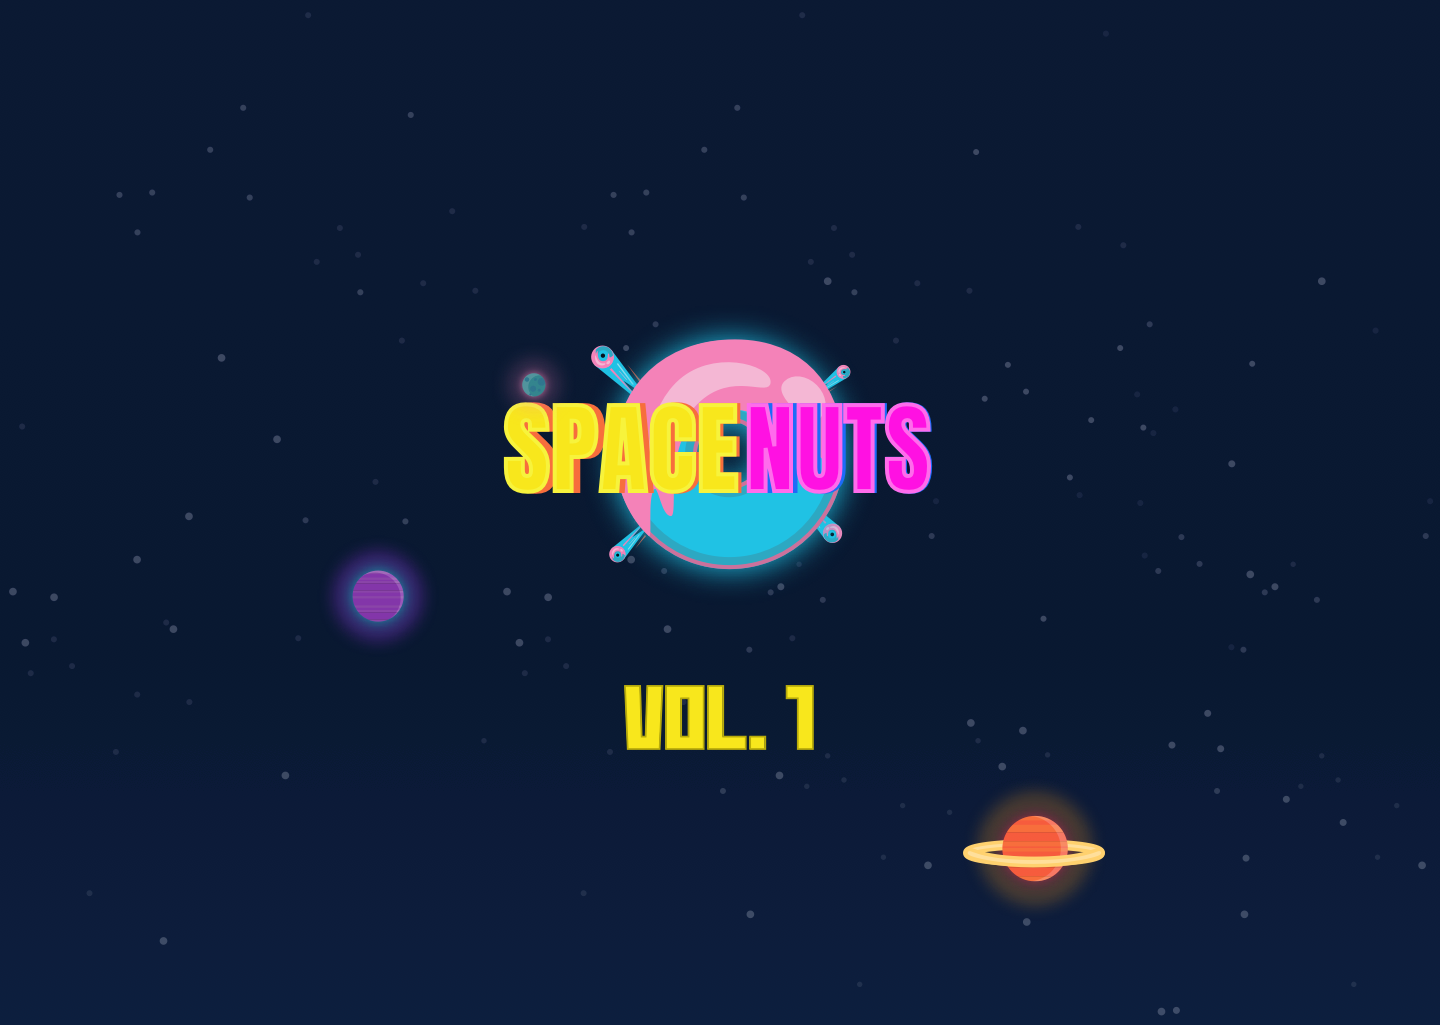
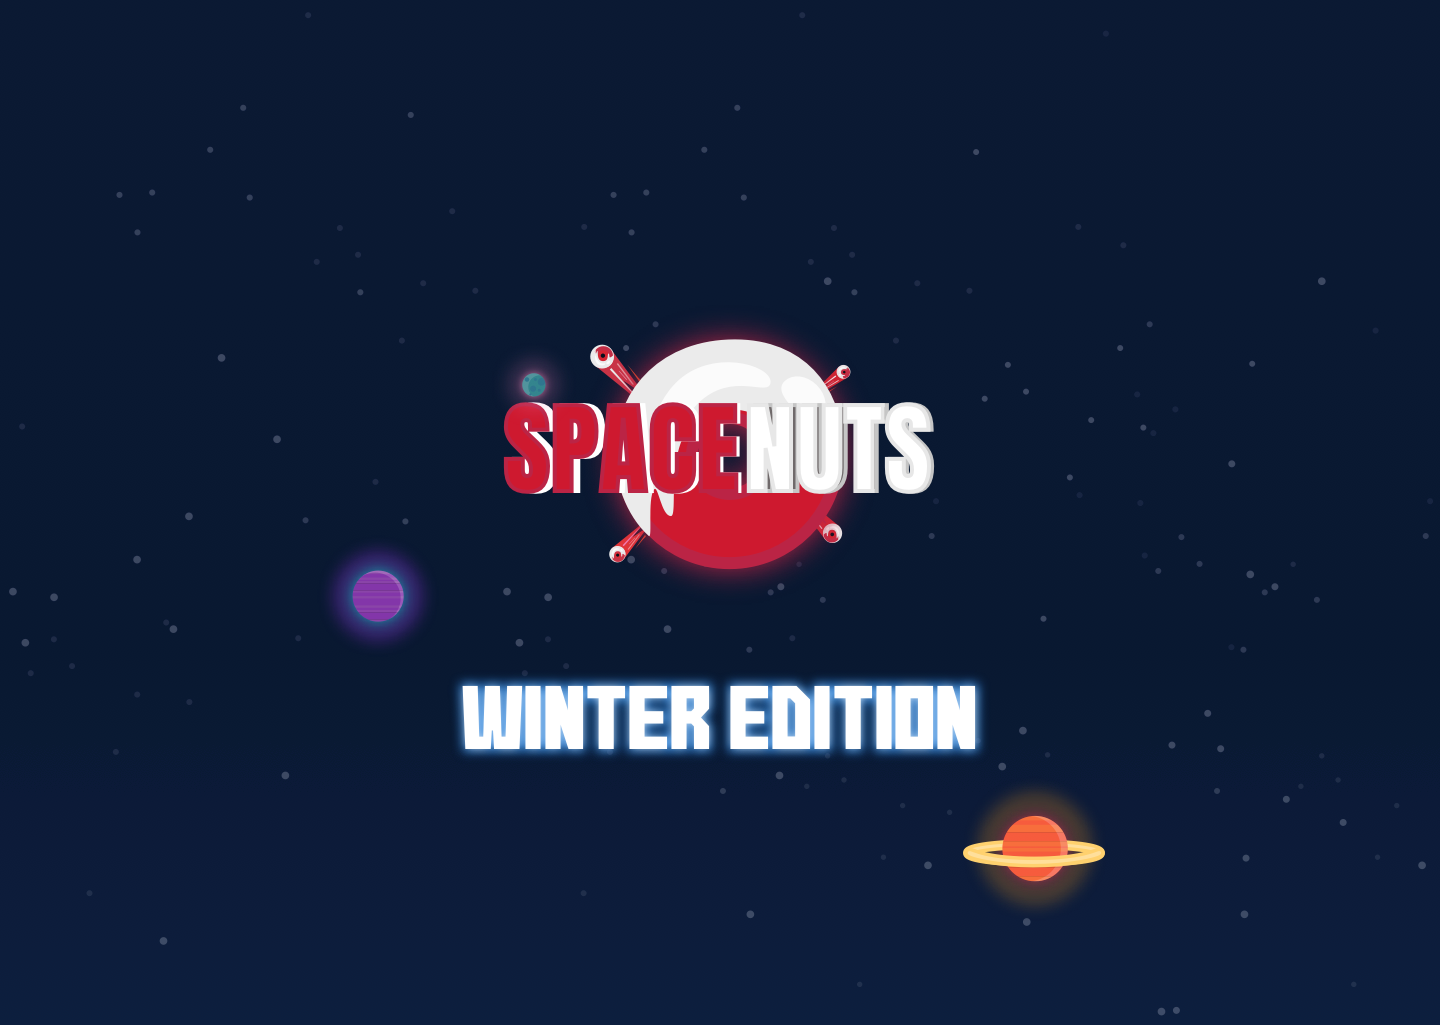
WInter Edition update

Changed region(s): [[0.3438, 0.3122, 0.6562, 0.5932], [0.3125, 0.6556, 0.6875, 0.7493]]

diff --git a/index.html b/index.html
@@ -35,6 +35,13 @@
                     An endless shooting experience with multiple characters,
                     original music and funny dialogues.
                 </span>
+                <h2 class="big">Winter Edition</h2>
+                <ul>
+                  <li>Jump in the game as a new character Santa </li>
+                  <li>Collect gift boxes as Santa</li>
+                  <li>4 new tracks</li>
+                  <li>Winter environment tracks</li>
+                </ul>
               <h2 class="big">VOL. 1:</h2>
               <ul>
                 <li>One-hand control
@@ -55,19 +62,13 @@
                 <li>BLACKHOLES!</li>
                 <li>iCloud support</li>
                 <li>How much it can cost you may ask..99cent? Nooo, it's free! :)</li>
-                <li><span class="small"> There are Google Ads but only if you want these awesome characters right now! Just look at them. I wouldn't blame you..</span></li>
-                <li><span class="small"> I need a coffee..</span></li>
+                <li><span class="small"> There are Google Ads but only if you want these awesome characters right now! Just look at them. I wouldn't blame you..I need a coffee..</span></li>
                 <li><span class="small"> hmm..what else..I guess stuff?</span></li>
                 <li>and oh yes, more coming (soon)!</li>
               </ul>
               <span>Don't forget to listen or download superduper original soundtrack!</span>
               <br> Thanks <span class="name">&#10084; </span> Tomas
               <p></p>
-              <span class="supersmall">P.S.: If you count only 15 characters then it means:
-                <ul>
-                  <li style="list-style-type:lower-alpha"> you know how to count ! </li>
-                  <li style="list-style-type:lower-alpha"> one character is hidden behind the pay-nah. You just need to play till the end. :P </li>
-              </span>
           </div>
           <a href="http://bit.ly/2LIlb5G">Download Original Soundtrack</a>
           <p> </p>

diff --git a/index.css b/index.css
@@ -42,7 +42,7 @@
   .info {
     width: 100%;
     height: 100%;
-    background: #FFF360;
+    background: #F84848;
     display: flex;
     flex-direction: row;
     justify-content: space-around;
